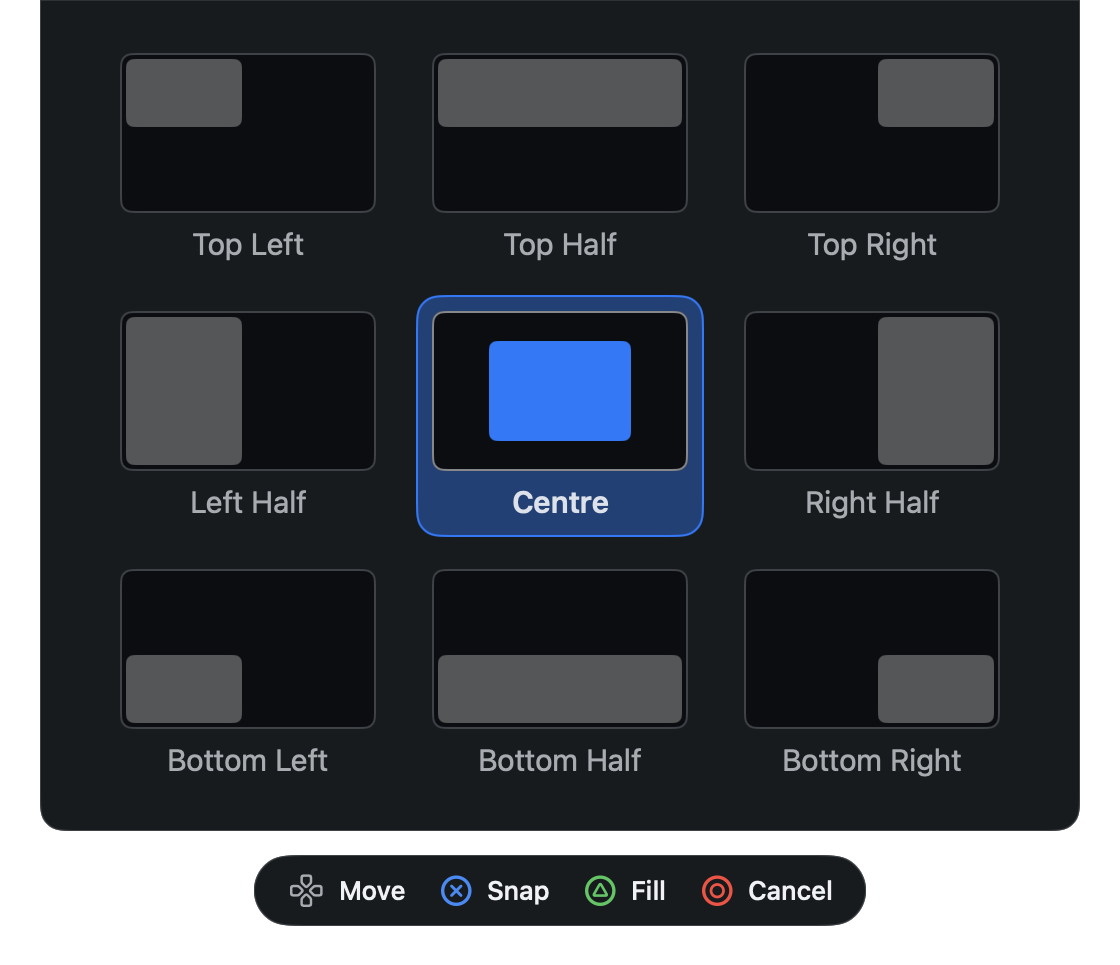
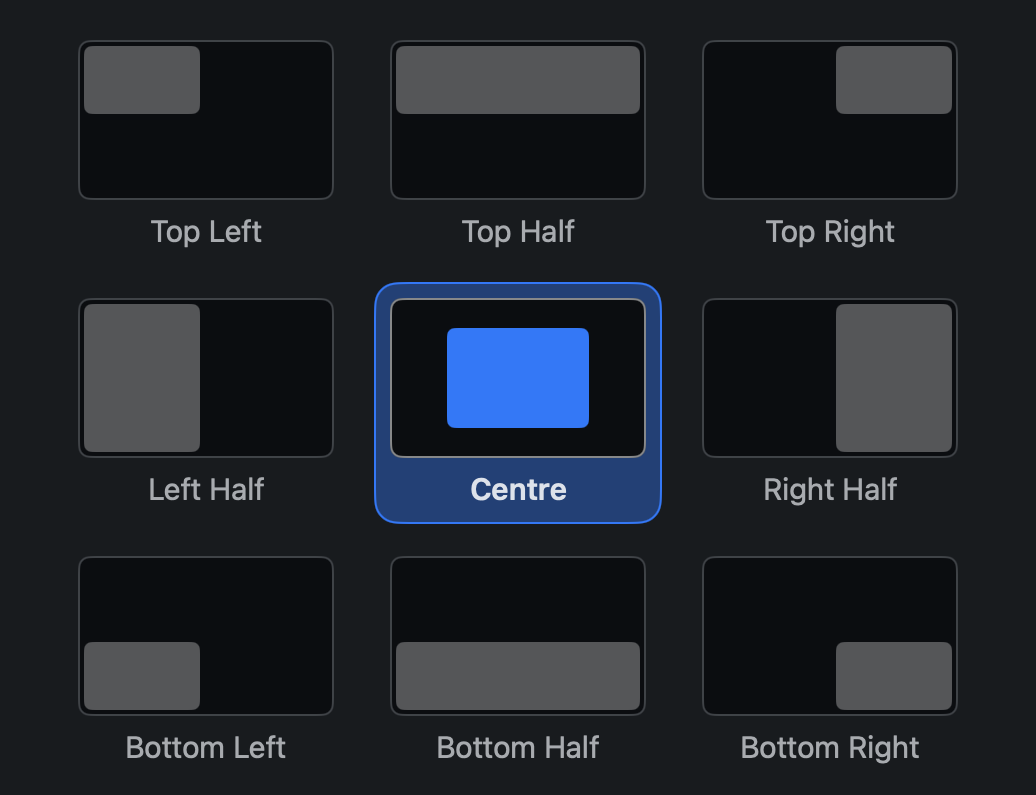
fix(home): plain copy, a whole Window Snap, and captions that line up
Sean, reading the live branch: "playing by itself" read off, the copy had
Claude-isms, and Window Snap's label sat out of line. Checked against
_dotfiles/writing-style.md, the page lost its colon-then-reveal lines, the
"and then some" and "make it yours" stock phrases, the slogan-then-triplet
trust head and the kickers that repeated their headings. The demo no longer
announces itself while it plays, says "Your turn" when you take over, and
marks Mac-only jobs "(on your Mac)".

The two-up cells now share a fixed picture height, so their captions start on
one line. Window Snap is cropped inside its card to all nine places, where the
old crop left the card's sides running off the top. make ci: 282 passed.

Claude-Session: https://claude.ai/code/session_01A1HYNXsib5EdDtxjJck57x

diff --git a/src/_includes/bands/home/does.html b/src/_includes/bands/home/does.html
@@ -7,34 +7,33 @@
 <section class="h-does" id="what" aria-labelledby="h-does-h">
   <div class="h-wrap h-frame">
     <div class="h-big">
-      <h2 id="h-does-h">The keyboard, the mouse, <em>and then some.</em></h2>
-      <p class="h-lede">Three things a phone remote can’t do: every button already has a job, it types, and it learns your apps. Then the rest.</p>
+      <h2 id="h-does-h">What it <em>does.</em></h2>
       <p class="h-note">Pictures are the app with a DualSense; button names follow your controller.</p>
     </div>
     <div class="h-grid">
       <article class="h-cell h-wide">
         <div class="h-pic">{{ shot("help", 2078, 1500, "Steer’s help card: a DualSense with every control labelled. Cross is Left Click, the left stick moves the mouse, pressing the right stick opens the on-screen keyboard.") }}</div>
-        <div class="h-txt"><div><p class="h-kick">It already works</p><h3>Every button already has a job.</h3></div><p>Plug it in and point, click, scroll and switch apps. On a DualSense, press Create, the small button left of the touchpad, and the help card shows what every button does in the app you’re using. Hold a shoulder button and the others take a second job until you let go, like Shift on a keyboard.</p></div>
+        <div class="h-txt"><div><h3>Every button already has a job.</h3></div><p>Plug it in: point, click, scroll, switch apps. Press Create (left of the touchpad) and the help card shows every button for the app in front. Hold a shoulder button and the rest change jobs until you let go. Like Shift.</p></div>
       </article>
       <article class="h-cell">
         <div class="h-pic">{{ shot("keyboard", 2354, 1248, "Steer’s on-screen keyboard: a full Mac layout split in two, with F and J lit where each stick is aiming.") }}</div>
-        <div class="h-txt"><p class="h-kick">It types</p><h3>A real keyboard, for two thumbs.</h3><p>Each stick aims at its own half of a Mac keyboard and the triggers type. Space, Delete and Return sit on the face buttons. Or press the left stick and say it.</p></div>
+        <div class="h-txt"><h3>A Mac keyboard, split for two thumbs.</h3><p>Each stick aims at one half; the triggers type. Space, Delete and Return are face buttons. Or press the left stick and say it.</p></div>
       </article>
       <article class="h-cell">
         <div class="h-pic">{{ shot("apps", 1714, 873, "Steer’s Gallery: ready-made setups for Final Cut Pro, DaVinci Resolve, Lightroom Classic, drawing apps, Keynote, Terminal, Xcode and code editors.") }}</div>
-        <div class="h-txt"><p class="h-kick">It learns your apps</p><h3>Every app gets its own buttons.</h3><p>Add Final Cut Pro, Lightroom Classic or Keynote from the Gallery, and its buttons switch in when you open the app and back when you leave.</p></div>
+        <div class="h-txt"><h3>Every app gets its own buttons.</h3><p>Add Final Cut Pro, Lightroom Classic or Keynote from the Gallery. Its buttons switch in when you open the app, and out when you leave.</p></div>
       </article>
       <article class="h-cell">
         <div class="h-pic">{{ shot("ring", 704, 838, "Steer’s ring of apps: Safari, Finder, Music, Mail, Calendar, Notes, Messages, Settings and Maps, with Aim, Select and Cancel below.", "h-bare") }}</div>
-        <div class="h-txt"><h3>Your apps, in a ring.</h3><p>Press the left stick, point, and you’re in the app. Build rings of your own for anything you do often.</p></div>
+        <div class="h-txt"><h3>A ring of apps.</h3><p>Press the left stick, point, press ✕. Make your own rings for anything else.</p></div>
       </article>
       <article class="h-cell">
-        <div class="h-pic">{{ shot("snap", 1120, 965, "Steer’s Window Snap: nine places for a window, from Top Left to Bottom Right, with Centre picked.") }}</div>
-        <div class="h-txt"><h3>Windows where you want them.</h3><p>Pick one of nine places on the screen and the window moves there.</p></div>
+        <div class="h-pic">{{ shot("snap", 1036, 795, "Steer’s Window Snap: nine places for a window, from Top Left to Bottom Right, with Centre picked.") }}</div>
+        <div class="h-txt"><h3>Window Snap.</h3><p>Nine places on the screen. Pick one; the window goes there.</p></div>
       </article>
       <article class="h-cell h-wide">
         <div class="h-pic h-pic-strip">{{ shot("tiles", 1817, 203, "Five settings tiles: Button Combos, Gyro, Lights, Trigger Resistance and Vibration.") }}</div>
-        <div class="h-txt"><div><h3>Feel it, then make it <em>yours.</em></h3></div><p>On a DualSense, the triggers push back as you press. Vibration answers when Steer does something, each set of jobs gets its own light colour, and you can tilt the controller to aim. Click any button on the picture in Settings to change what it does, and History keeps restore points so you can always go back.</p></div>
+        <div class="h-txt"><div><h3>Triggers that push back.</h3></div><p>On a DualSense the triggers resist as you press. Vibration when Steer acts, a light colour per set of jobs, tilt to aim. To change a button, click it on the picture in Settings; History keeps restore points if you change your mind.</p></div>
       </article>
     </div>
   </div>

diff --git a/src/_includes/bands/home/faq.html b/src/_includes/bands/home/faq.html
@@ -1,11 +1,11 @@
 <!-- QUESTIONS, in the order the review panel's visitors asked them. -->
 <section class="h-faq" aria-labelledby="h-faq-h">
   <div class="h-wrap h-frame">
-    <div class="h-big"><h2 id="h-faq-h">Questions people ask <em>first.</em></h2></div>
+    <div class="h-big"><h2 id="h-faq-h">Questions.</h2></div>
     <div class="h-qs">
       <details><summary>Will it work with my controller?</summary><p>DualSense, DualShock 4, Xbox and Switch Pro are supported directly, with light colours and trigger resistance where the controller has them, and 300+ others through a shared database of controller layouts. Button names follow your controller, so an Xbox shows A and B, not ✕ and ○. <a href="compatibility.html">Every controller, in detail.</a></p></details>
-      <details><summary>Do I have to set it all up?</summary><p>No. It works the moment you plug in, and a short setup teaches you with the controller in your hands. Change things only when you want to.</p></details>
-      <details><summary>My phone is already a remote. Why this?</summary><p>A remote points and clicks. Steer also types on a full keyboard, switches its buttons with your apps, and gives every button a second job. It’s built for the desk as much as the sofa.</p></details>
+      <details><summary>Do I have to set it all up?</summary><p>No. It works when you plug in, and a short setup teaches you with the controller in hand.</p></details>
+      <details><summary>My phone is already a remote. Why this?</summary><p>A remote points and clicks. Steer also types, switches buttons per app, and gives every button a second job.</p></details>
       <details><summary>Is it safe to give it permission?</summary><p>Steer asks for one Mac permission, Accessibility, which is what lets any app send clicks and keys. A DualSense Edge’s back paddles also need Input Monitoring. There’s no account and no analytics. It goes online to check your licence, which sends the licence key and nothing about you, and to look for updates when you ask. <a href="trust.html">What it can and can’t touch.</a></p></details>
       <details><summary>How is it different from other controller apps?</summary><p>It types on a full Mac keyboard, every button has a second job while you hold a shoulder, and each app can have its own setup, ready-made in the Gallery. <a href="vs.html">The compare page</a> goes point by point, with sources.</p></details>
       <details><summary>Is it a subscription?</summary><p>No. When it ships it’s €19.99 once, after a 14-day trial with no card and no account.</p></details>

diff --git a/src/scripts/steer-demo.js b/src/scripts/steer-demo.js
@@ -168,7 +168,7 @@ function init(root) {
   function closeRing() { state.ring = false; ring.hidden = true; }
   function ringSelect() {
     if (state.ringSel < 0) return say("Point at an app first");
-    const n = APPS[state.ringSel]; closeRing(); showToast(`Steer would switch to ${n}. This page only names it.`); return say(`Picked ${n}`);
+    const n = APPS[state.ringSel]; closeRing(); showToast(`On your Mac, this opens ${n}.`); return say(`Picked ${n}`);
   }
 
   $("helptable").querySelector("tbody").innerHTML = BASE.map(([a, b]) => `<tr><th scope="row">${a}</th><td>${b}</td></tr>`).join("");
@@ -228,7 +228,7 @@ function init(root) {
       case "tri": return ret();
       default: break;
     }
-    if (BASEJOB[b]) say(`${BASEJOB[b]}${ONLY_NAMED.includes(b) ? ". On your Mac that happens; this page names it." : ""}`);
+    if (BASEJOB[b]) say(`${BASEJOB[b]}${ONLY_NAMED.includes(b) ? " (on your Mac)" : ""}`);
     return undefined;
   }
   let swallowL3 = false;  // the L3 press that closed the ring must not reopen it on release
@@ -317,7 +317,7 @@ function init(root) {
   async function nudge(keys, ms, b, verb) { live(); show(b, verb); keys.forEach((k) => held.add(k)); await sleep(ms); keys.forEach((k) => held.delete(k)); }
   async function run() {
     if (!attract) return;
-    said.setAttribute("aria-live", "off"); setSrc("Playing by itself"); stopBtn.hidden = false;
+    said.setAttribute("aria-live", "off"); src.hidden = true; stopBtn.hidden = false;
     try {
       for (;;) {
         if (!state.open) await tap("r3", "opens the keyboard", 500);
@@ -336,10 +336,10 @@ function init(root) {
   function stop() {
     if (!attract) return;
     attract = false; io?.disconnect(); timers.forEach(clearTimeout); held.clear(); ghost.classList.remove("on"); stopBtn.hidden = true;
-    said.setAttribute("aria-live", "polite"); say("You’re driving. Press any button."); setSrc("You’re driving");
+    said.setAttribute("aria-live", "polite"); say("Your turn."); src.hidden = false; setSrc("Keyboard");
   }
   if (attract) {
-    $("phone").textContent = "It’s playing by itself. Open this page on a Mac and plug in a controller to take over.";
+    $("phone").textContent = "On a Mac, plug in a controller to take over.";
     ["keydown", "pointerdown"].forEach((t) => stage.addEventListener(t, stop, { capture: true }));
     stopBtn.addEventListener("click", () => { stop(); stage.focus(); });
     io = new IntersectionObserver((es) => { if (es.some((x) => x.isIntersecting)) { io.disconnect(); run(); } });

diff --git a/src/styles/bands/home/does.css b/src/styles/bands/home/does.css
@@ -3,7 +3,8 @@
 .h-grid > .h-cell:nth-child(odd):not(.h-wide) { border-right: 1px solid var(--sep); }
 .h-wide { grid-column: 1 / -1; }
 .h-pic { display: grid; place-items: center; padding: 40px; background: var(--bg-sunken); }
-.h-grid > .h-cell:not(.h-wide) .h-pic { aspect-ratio: 4 / 3; }
+.h-grid > .h-cell:not(.h-wide) .h-pic { height: 460px; }
+.h-grid > .h-cell:not(.h-wide) .h-pic img { max-height: 380px; }
 .h-pic img { width: auto; max-width: 100%; height: auto; max-height: 100%; border-radius: var(--r-window); box-shadow: var(--shadow-window); }
 .h-wide .h-pic { padding: 48px 72px; }
 .h-wide .h-pic img { max-height: 620px; }
@@ -11,13 +12,12 @@
 .h-pic-strip img { max-height: none; }
 .h-txt { padding: 26px 32px 32px; }
 .h-txt p { margin: 8px 0 0; color: var(--text-2); max-width: 36em; line-height: 1.5; }
-.h-txt .h-kick { margin: 0 0 6px; font-size: 15px; font-weight: 600; color: var(--blue-text); }
 .h-wide .h-txt { display: grid; grid-template-columns: 1fr 1.3fr; gap: 32px; }
 .h-wide .h-txt > p { margin-top: 0; }
 @media (max-width: 760px) {
   .h-grid { grid-template-columns: 1fr; }
   .h-grid > .h-cell:nth-child(odd):not(.h-wide) { border-right: 0; }
-  .h-grid > .h-cell:not(.h-wide) .h-pic { aspect-ratio: auto; }
+  .h-grid > .h-cell:not(.h-wide) .h-pic { height: auto; }
   .h-pic, .h-wide .h-pic { padding: 20px; }
   .h-txt { padding: 22px 0 28px; }
   .h-wide .h-txt { grid-template-columns: 1fr; gap: 8px; }

diff --git a/src/_includes/bands/home/trust.html b/src/_includes/bands/home/trust.html
@@ -3,14 +3,13 @@
 <section class="h-trust" aria-labelledby="h-trust-h">
   <div class="h-wrap h-frame">
     <div class="h-big">
-      <h2 id="h-trust-h">Pay <em>once.</em> Keep it.</h2>
-      <p class="h-lede">No subscription, no account, nothing to rent.</p>
+      <h2 id="h-trust-h">€19.99. <em>Once.</em></h2>
     </div>
     <div class="h-four">
-      <div><h3>€19.99, once</h3><p>When it ships, after 14 days free with no card and no account.</p></div>
-      <div><h3>Private</h3><p>No account and no analytics. Only your licence key goes online, and updates when you ask.</p></div>
-      <div><h3>Your controller</h3><p>DualSense, Xbox, Switch Pro and 300+ others, with their own button names.</p></div>
-      <div><h3>Scriptable</h3><p>Shortcuts, scripts and links can drive it, and so can <a href="agents.html">your AI tools</a>.</p></div>
+      <div><h3>Try it first</h3><p>14 days free when it ships. No card, no account.</p></div>
+      <div><h3>Private</h3><p>No account, no analytics. The licence key goes online; nothing you press does.</p></div>
+      <div><h3>Your controller</h3><p>DualSense, Xbox, Switch Pro, and 300+ others. Button names match yours.</p></div>
+      <div><h3>Scriptable</h3><p>Shortcuts, scripts, links, and <a href="agents.html">AI agents</a> can drive it.</p></div>
     </div>
   </div>
 </section>

diff --git a/src/_includes/bands/home/hero.html b/src/_includes/bands/home/hero.html
@@ -5,7 +5,7 @@
   <div class="h-wrap h-hero-in">
     <p class="h-pain">Your Mac only listens to a keyboard and a mouse.</p>
     <h1 id="h-hero-h">Hand it a <em>controller.</em></h1>
-    <p class="h-lede">Steer turns the game controller you already own into a mouse and keyboard for your Mac. Watch it type below, then take over with yours.</p>
+    <p class="h-lede">Steer turns the game controller you already own into a mouse and keyboard for your Mac. Watch it below, then take over with yours.</p>
     {% set mlId = "top" %}{% include "bands/home/join.html" %}
     <button type="button" class="btn btn-secondary h-share" data-share hidden>Send it to my Mac</button>
   </div>

diff --git a/src/_includes/bands/home/rooms.html b/src/_includes/bands/home/rooms.html
@@ -2,7 +2,7 @@
      there: Defaults.swift (R3 keyboard, R1 + Square undo), arrows advance Keynote. -->
 <section class="h-rooms" aria-labelledby="h-rooms-h">
   <div class="h-wrap">
-    <h2 id="h-rooms-h">From the sofa to the <em>desk.</em></h2>
+    <h2 id="h-rooms-h">Sofa. Desk. <em>Front of the room.</em></h2>
     <div class="h-rooms-row">
       <figure>
         <img src="assets/life/couch.jpg" eleventy:widths="480,720,960" width="1536" height="1024" sizes="(max-width: 860px) 100vw, 380px" alt="Two people on a sofa laugh as she picks a show with a game controller, a streaming site on the TV behind them.">

diff --git a/src/_includes/bands/play/demo.html b/src/_includes/bands/play/demo.html
@@ -6,7 +6,7 @@
   <p class="sd-status">
     <span id="sd-said" aria-live="polite">The keyboard is open and “Hello, Mac” is typed.</span>
     <span class="sd-src" id="sd-src">Still frame</span>
-    <button type="button" class="sd-stop" id="sd-stop" hidden>Stop the demo</button>
+    <button type="button" class="sd-stop" id="sd-stop" hidden>Stop</button>
   </p>
   <div class="sd-stage" id="sd-stage" tabindex="0" role="application" aria-roledescription="demo" aria-describedby="sd-keyhelp"
        aria-label="A pretend Mac desk. Your controller drives it, or your keyboard while it has focus.">

diff --git a/src/_includes/bands/home/close.html b/src/_includes/bands/home/close.html
@@ -1,8 +1,8 @@
 <!-- THE CLOSE. #pricing is where every CTA falls back to without JavaScript. -->
 <section class="h-close" id="pricing" aria-labelledby="h-close-h">
   <div class="h-wrap">
-    <h2 id="h-close-h">Be first to pick it <em>up.</em></h2>
-    <p class="h-lede">One email, the day the trial opens. Nothing else.</p>
+    <h2 id="h-close-h">Get it the day it <em>ships.</em></h2>
+    <p class="h-lede">One email when the trial opens.</p>
     {% set mlId = "end" %}{% include "bands/home/join.html" %}
     <p class="h-req">For a Mac with Apple silicon, on macOS 14 or later.</p>
   </div>
